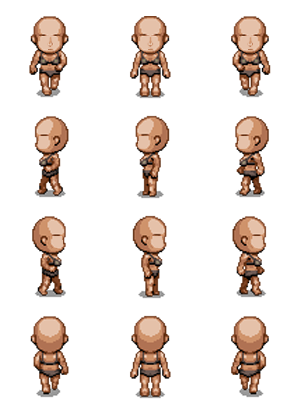
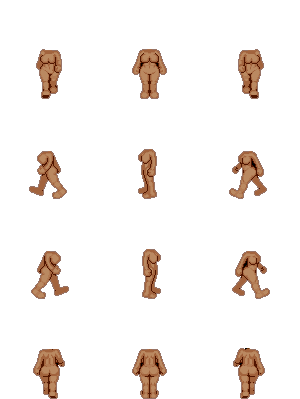
New js file for drawing head

diff --git a/gamepalclient/src/components/worldComponent.vue b/gamepalclient/src/components/worldComponent.vue
@@ -182,6 +182,10 @@
             <img id="sheep" src="../assets/image/animals/sheep.png" />
             <img id="tiger" src="../assets/image/animals/tiger.png" />
             <img id="avatars" src="../assets/image/characters/avatars.png" />
+            <img id="body_a" src="../assets/image/characters/body_a.png" />
+            <img id="body_c" src="../assets/image/characters/body_c.png" />
+            <img id="body_l" src="../assets/image/characters/body_l.png" />
+            <img id="body_b" src="../assets/image/characters/body_b.png" />
             <img id="body_m_a" src="../assets/image/characters/body_m_a.png" />
             <img id="body_m_c" src="../assets/image/characters/body_m_c.png" />
             <img id="body_m_l" src="../assets/image/characters/body_m_l.png" />
@@ -190,11 +194,7 @@
             <img id="body_f_c" src="../assets/image/characters/body_f_c.png" />
             <img id="body_f_l" src="../assets/image/characters/body_f_l.png" />
             <img id="body_f_b" src="../assets/image/characters/body_f_b.png" />
-            <img id="eyes_1" src="../assets/image/characters/eyes_1.png" />
-            <img id="eyes_2" src="../assets/image/characters/eyes_2.png" />
-            <img id="eyes_3" src="../assets/image/characters/eyes_3.png" />
-            <img id="eyes_4" src="../assets/image/characters/eyes_4.png" />
-            <img id="eyes_5" src="../assets/image/characters/eyes_5.png" />
+            <img id="eyes" src="../assets/image/characters/eyes.png" />
             <img id="hairstyle_black" src="../assets/image/characters/hairstyles/hairstyle_black.png" />
             <img id="hairstyle_grey" src="../assets/image/characters/hairstyles/hairstyle_grey.png" />
             <img id="hairstyle_orange" src="../assets/image/characters/hairstyles/hairstyle_orange.png" />
@@ -255,8 +255,9 @@ let racoon
 // let sheep
 // let tiger
 let avatars
-let maleBodies
-let femaleBodies
+let bodies
+// let maleBodies
+// let femaleBodies
 let eyesImage
 let hairstyle_black
 let hairstyle_grey
@@ -530,25 +531,25 @@ export default {
     // sheep = document.getElementById('sheep')
     // tiger = document.getElementById('tiger')
     avatars = document.getElementById('avatars')
-    maleBodies = [
-      document.getElementById('body_m_a'),
-      document.getElementById('body_m_c'),
-      document.getElementById('body_m_l'),
-      document.getElementById('body_m_b')
+    bodies = [
+      document.getElementById('body_a'),
+      document.getElementById('body_c'),
+      document.getElementById('body_l'),
+      document.getElementById('body_b')
     ]
-    femaleBodies = [
-      document.getElementById('body_f_a'),
-      document.getElementById('body_f_c'),
-      document.getElementById('body_f_l'),
-      document.getElementById('body_f_b')
-    ]
-    eyesImage = [
-      document.getElementById('eyes_1'),
-      document.getElementById('eyes_2'),
-      document.getElementById('eyes_3'),
-      document.getElementById('eyes_4'),
-      document.getElementById('eyes_5')
-    ]
+    // maleBodies = [
+    //   document.getElementById('body_m_a'),
+    //   document.getElementById('body_m_c'),
+    //   document.getElementById('body_m_l'),
+    //   document.getElementById('body_m_b')
+    // ]
+    // femaleBodies = [
+    //   document.getElementById('body_f_a'),
+    //   document.getElementById('body_f_c'),
+    //   document.getElementById('body_f_l'),
+    //   document.getElementById('body_f_b')
+    // ]
+    eyesImage = document.getElementById('eyes')
     hairstyle_black = document.getElementById('hairstyle_black')
     hairstyle_grey = document.getElementById('hairstyle_grey')
     hairstyle_orange = document.getElementById('hairstyle_orange')
@@ -631,6 +632,9 @@ export default {
       // Key listener 24/02/12
       var that = this
       document.addEventListener("keyup", function(event) {
+        if (canvasMoveUse !== MOVEMENT_STATE_IDLE && canvasMoveUse !== MOVEMENT_STATE_MOVING) {
+          return
+        }
         event.preventDefault()
         if (event.key === 'w' || event.key === 'W') {
           isKeyDown[0] = false
@@ -655,6 +659,9 @@ export default {
         }
       })
       document.addEventListener("keydown", function(event) {
+        if (canvasMoveUse !== MOVEMENT_STATE_IDLE && canvasMoveUse !== MOVEMENT_STATE_MOVING) {
+          return
+        }
         event.preventDefault()
         if (event.key === 'w' || event.key === 'W') {
           isKeyDown[0] = true
@@ -994,9 +1001,6 @@ export default {
         var imageY = 0
         if (block.type == BLOCK_TYPE_PLAYER) {
           this.printCharacter(playerInfos[block.id], block.x - 0.5, block.y - 1)
-          // this.drawCharacter(context, 
-          // {x: (block.x - 0.5) * blockSize + deltaWidth, y: (block.y - 1) * blockSize + deltaHeight}, 
-          // {x: (block.x + 0.5) * blockSize + deltaWidth, y: block.y * blockSize + deltaHeight})
         } else {
           if (Number(block.code) == EVENT_CODE_HIT) {
             img = hitEffect
@@ -1133,18 +1137,16 @@ export default {
       var img
       if (playerInfoTemp.creature == 1) {
         // Display RPG character
-        var adderY, bodyImage
+        var bodyImage = bodies[Number(playerInfoTemp.skinColor) - 1]
         if (playerInfoTemp.gender == 1) {
-          bodyImage = maleBodies[Number(playerInfoTemp.skinColor) - 1]
-          adderY = 4
+          // bodyImage = maleBodies[Number(playerInfoTemp.skinColor) - 1]
         } else if (playerInfoTemp.gender == 2) {
-          bodyImage = femaleBodies[Number(playerInfoTemp.skinColor) - 1]
-          adderY = 0
+          // bodyImage = femaleBodies[Number(playerInfoTemp.skinColor) - 1]
+          offsetX += 3
         }
-        context.drawImage(bodyImage, offsetX * imageBlockSize, offsetY * imageBlockSize, imageBlockSize, imageBlockSize, 
-        x * blockSize + deltaWidth, y * blockSize + deltaHeight, blockSize, blockSize)
-        context.drawImage(eyesImage[Number(playerInfoTemp.eyes) - 1], 0, offsetY * imageBlockSize, imageBlockSize, imageBlockSize, 
-        x * blockSize + deltaWidth, y * blockSize + deltaHeight, blockSize, blockSize)
+        const cutHeadRatio = 0.32
+        context.drawImage(bodyImage, offsetX * imageBlockSize, (cutHeadRatio + offsetY) * imageBlockSize, imageBlockSize, (1 - cutHeadRatio) * imageBlockSize, 
+        x * blockSize + deltaWidth, (cutHeadRatio + y) * blockSize + deltaHeight, blockSize, (1 - cutHeadRatio) * blockSize)
         // Print outfit
         if (this.isDef(playerInfoTemp.outfits) && playerInfoTemp.outfits.length > 0) {
           if (playerInfoTemp.outfits[0] == 'a001') {
@@ -1186,18 +1188,16 @@ export default {
           if (playerInfoTemp.outfits[0] == 'a013') {
             img = a013
           }
-          context.drawImage(img, offsetX * imageBlockSize, (offsetY + adderY) * imageBlockSize, imageBlockSize, imageBlockSize, 
+          context.drawImage(img, offsetX * imageBlockSize, offsetY * imageBlockSize, imageBlockSize, imageBlockSize, 
           x * blockSize + deltaWidth, y * blockSize + deltaHeight, blockSize, blockSize)
         }
-        if (playerInfoTemp.hairColor == 1) {
-          img = hairstyle_black
-        } else if (playerInfoTemp.hairColor == 2) {
-          img = hairstyle_grey
-        } else if (playerInfoTemp.hairColor == 3) {
-          img = hairstyle_orange
-        }
-        context.drawImage(img, (playerInfoTemp.hairstyle - 1) * imageBlockSize, offsetY * imageBlockSize, imageBlockSize, imageBlockSize, 
-        x * blockSize + deltaWidth, y * blockSize + deltaHeight, blockSize, blockSize)
+        
+        // Show head
+        this.drawHead(context, imageBlockSize, blockSize,
+        {x: x * blockSize + deltaWidth, y: y * blockSize + deltaHeight}, 
+        {x: (x + 1) * blockSize + deltaWidth, y: (y + 1) * blockSize + deltaHeight},
+        [0.5, 0.5, 0.5, 0.5, 0.52, 0.6, 0.6], offsetY,
+        playerInfoTemp, eyesImage, hairstyle_black, hairstyle_grey, hairstyle_orange)
       } else if (playerInfoTemp.creature == 2) {
         // Display animals
         switch (playerInfoTemp.skinColor) {
@@ -1217,21 +1217,22 @@ export default {
         context.drawImage(img, offsetX * imageBlockSize, offsetY * imageBlockSize, imageBlockSize, imageBlockSize, 
         x * blockSize + deltaWidth, y * blockSize + deltaHeight, blockSize, blockSize)
       } else if (playerInfoTemp.creature == 3) {
-        // Display npcs
+        // Display other creatures
         // TBD
       }
       // Show name
+      const statusDisplayDistance = 0.8
       if (this.isDef(playerInfoTemp.nameColor)) {
         context.save()
         context.fillStyle = playerInfoTemp.nameColor
-        context.fillRect((x - 0.25 + 0.5) * blockSize + deltaWidth, (y - 0.36 - 0.5 + 1) * blockSize + deltaHeight, 
+        context.fillRect((x - 0.25 + 0.5) * blockSize + deltaWidth, (y - 0.36 - 0.5 + statusDisplayDistance) * blockSize + deltaHeight, 
         blockSize * 0.5, 
         blockSize * 0.02)
         context.restore()
       }
       context.drawImage(avatars, playerInfoTemp.avatar % 10 * avatarSize, Math.floor(playerInfoTemp.avatar / 10) * avatarSize, 
       avatarSize, avatarSize, (x - 0.25 + 0.02 - 0.2 + 0.5) * blockSize + deltaWidth, 
-      (y - 0.36 - 0.2 - 0.5 + 1) * blockSize + deltaHeight, 
+      (y - 0.36 - 0.2 - 0.5 + statusDisplayDistance) * blockSize + deltaHeight, 
       blockSize * 0.25, blockSize * 0.25)
       if (userCode != playerInfoTemp.id) {
         context.fillStyle = 'yellow'
@@ -1245,7 +1246,7 @@ export default {
         context.save()
         context.beginPath()
         context.arc((x + 0.25 + 0.1 + 0.5) * blockSize + deltaWidth, 
-        (y - 0.54 + 0.1 - 0.5 + 1) * blockSize + deltaHeight, 
+        (y - 0.54 + 0.1 - 0.5 + statusDisplayDistance) * blockSize + deltaHeight, 
         0.1 * blockSize, 0, 
         2 * Math.PI)
         context.fill()
@@ -1253,7 +1254,7 @@ export default {
       }
       if (this.isDef(playerInfoTemp.nickname)) {
         this.printText(playerInfoTemp.nickname, (x + 0.5) * blockSize + deltaWidth, 
-        (y - 0.5 + 0.12 - 0.5 + 1) * blockSize + deltaHeight, 
+        (y - 0.5 + 0.12 - 0.5 + statusDisplayDistance) * blockSize + deltaHeight, 
         Math.min(canvas.width, blockSize * 0.5), 
         'center')
       }
@@ -2326,6 +2327,9 @@ export default {
       return rst
     },
     startInteraction (block) {
+      if (this.isDef(interactionInfo) && interactionInfo.code == block.code) {
+        return
+      }
       if (block.type == BLOCK_TYPE_PLAYER) {
         if (block.id != userCode) {
           interactionInfo = {
@@ -3112,8 +3116,8 @@ export default {
     printText (content, x, y, maxWidth, textAlign) {
       this.$drawMethods.printText(context, content, x, y, maxWidth, textAlign)
     },
-    drawCharacter (context, upLeftPoint, downRightPoint) {
-      this.$drawMethods.drawCharacter(context, upLeftPoint, downRightPoint)
+    drawHead (context, imageBlockSize, blockSize, upLeftPoint, downRightPoint, coefs, offsetY, playerInfoTemp, eyesImage, hairstyle_black, hairstyle_grey, hairstyle_orange) {
+      this.$drawMethods.drawHead(context, imageBlockSize, blockSize, upLeftPoint, downRightPoint, coefs, offsetY, playerInfoTemp, eyesImage, hairstyle_black, hairstyle_grey, hairstyle_orange)
     }
   }
 }

diff --git a/gamepalclient/src/draw.js b/gamepalclient/src/draw.js
@@ -17,47 +17,83 @@ export const drawMethods = {
     context.fillText(content, x, y, maxWidth)
     context.restore()
   },
-  drawCharacter(context, upLeftPoint, downRightPoint) {
-    var width = downRightPoint.x - upLeftPoint.x
-    var height = downRightPoint.y - upLeftPoint.y
-    // let circles = [
-    //   { x: 200, y: 100, r: 100 },
-    //   { x: 100, y: 200, r: 100 },
-    //   { x: 200, y: 300, r: 100 },
-    //   { x: 300, y: 200, r: 100 }
-    // ];
-    this.drawHead(context, 
-      {x: upLeftPoint.x + width * 0.25, y: upLeftPoint.y}, 
-      {x: upLeftPoint.x + width * 0.75, y: upLeftPoint.y + height * 0.5},
-      [0.5, 0.5, 0.5, 0.5, 0.5])
-    // drawFigure(context, )
-  },
-  drawHead(context, upLeftPoint, downRightPoint, coefs) {
+  drawHead(context, imageBlockSize, blockSize, upLeftPoint, downRightPoint, coefs, offsetY, playerInfoTemp, eyesImage, hairstyle_black, hairstyle_grey, hairstyle_orange) {
+    // upLeftPoint: 整个身体的左上角
+    // downRightPoint: 整个身体的右下角
     // coefs: 头顶高度系数 额头弧度系数 颧骨宽度系数 脸颊弧度系数 下颚高度系数
     // 头型
     var width = downRightPoint.x - upLeftPoint.x
     var height = downRightPoint.y - upLeftPoint.y
-    var headUpPoint = {x: upLeftPoint.x + width * 0.5, y: upLeftPoint.y + (1 - coefs[0]) * height * 0.5}
-    var headLeftPoint = {x: upLeftPoint.x + (1 - coefs[2]) * width * 0.5, y: upLeftPoint.y + height * 0.5}
-    var headDownPoint = {x: upLeftPoint.x + width * 0.5, y: upLeftPoint.y + (1 + coefs[0]) * height * 0.5}
-    var headRightPoint = {x: upLeftPoint.x + (1 + coefs[2]) * width * 0.5, y: upLeftPoint.y + height * 0.5}
-    var radiusUp = Math.sqrt(Math.pow(headUpPoint.x - headLeftPoint.x, 2) + Math.pow(headUpPoint.y - headLeftPoint.y, 2), 2)
-    var radiusDown = Math.sqrt(Math.pow(headDownPoint.x - headLeftPoint.x, 2) + Math.pow(headDownPoint.y - headLeftPoint.y, 2), 2)
-    context.strokeStyle = 'rgba(255, 255, 191, 0.5)'
-    context.fillStyle = 'rgba(191, 191, 127, 1)'
-    context.beginPath();
-    context.moveTo(headUpPoint.x, headUpPoint.y)
-    context.arcTo(headUpPoint.x, headUpPoint.y, headLeftPoint.x, headLeftPoint.y, radiusUp);
-    context.arcTo(headLeftPoint.x, headLeftPoint.y, headDownPoint.x, headDownPoint.y, radiusDown);
-    context.arcTo(headDownPoint.x, headDownPoint.y, headRightPoint.x, headRightPoint.y, radiusDown);
-    context.arcTo(headRightPoint.x, headRightPoint.y, headUpPoint.x, headUpPoint.y, radiusUp);
+    var centerHeadPoint = {x: upLeftPoint.x + width * 0.5, y: upLeftPoint.y + height * 0.15}
+    var UpLeftHeadPoint = {x: centerHeadPoint.x - width * 0.1 * (1 + (coefs[2] - 0.5)), y: centerHeadPoint.y - height * 0.12 * (1 + (coefs[0] - 0.5))}
+    var DownLeftHeadPoint = {x: centerHeadPoint.x - width * 0.1 * (1 + (coefs[3] - 0.5)), y: centerHeadPoint.y + height * 0.12 * (1 + (coefs[1] - 0.5))}
+    var DownRightHeadPoint = {x: centerHeadPoint.x + width * 0.1 * (1 + (coefs[3] - 0.5)), y: centerHeadPoint.y + height * 0.12 * (1 + (coefs[1] - 0.5))}
+    var UpRightHeadPoint = {x: centerHeadPoint.x + width * 0.1 * (1 + (coefs[2] - 0.5)), y: centerHeadPoint.y - height * 0.12 * (1 + (coefs[0] - 0.5))}
+    var leftControlPoint = {x: UpLeftHeadPoint.x - width * (coefs[5] - 0.5), y: centerHeadPoint.y}
+    var downControlPoint = {x: centerHeadPoint.x, y: DownLeftHeadPoint.y + height * (coefs[6] - 0.5)}
+    var rightControlPoint = {x: UpRightHeadPoint.x + width * (coefs[5] - 0.5), y: centerHeadPoint.y}
+    var upControlPoint = {x: centerHeadPoint.x, y: UpLeftHeadPoint.y - height * (coefs[4] - 0.5)}
+    switch (Number(playerInfoTemp.skinColor)) {
+      case 1:
+        context.strokeStyle = 'rgba(150, 75, 31, 1)'
+        context.fillStyle = 'rgba(249, 193, 157, 1)'
+        break
+      case 2:
+        context.strokeStyle = 'rgba(169, 100, 55, 1)'
+        context.fillStyle = 'rgba(252, 224, 206, 1)'
+        break
+      case 3:
+        context.strokeStyle = 'rgba(80, 21, 0, 1)'
+        context.fillStyle = 'rgba(186, 137, 97, 1)'
+        break
+      case 4:
+        context.strokeStyle = 'rgba(64, 31, 14, 1)'
+        context.fillStyle = 'rgba(119, 75, 41, 1)'
+        break
+    }
+    var neckWidth = width * 0.10
+    var neckHeight = height * 0.08
+    context.beginPath()
+    context.fillRect(centerHeadPoint.x - neckWidth / 2, DownLeftHeadPoint.y, neckWidth, neckHeight)
+    context.closePath()
+    context.fill()
+    context.beginPath()
+    context.moveTo(UpLeftHeadPoint.x, UpLeftHeadPoint.y)
+    context.quadraticCurveTo(leftControlPoint.x, leftControlPoint.y, DownLeftHeadPoint.x, DownLeftHeadPoint.y)
+    context.quadraticCurveTo(downControlPoint.x, downControlPoint.y, DownRightHeadPoint.x, DownRightHeadPoint.y)
+    context.quadraticCurveTo(rightControlPoint.x, rightControlPoint.y, UpRightHeadPoint.x, UpRightHeadPoint.y)
+    context.quadraticCurveTo(upControlPoint.x, upControlPoint.y, UpLeftHeadPoint.x, UpLeftHeadPoint.y)
     context.closePath()
     context.fill()
     context.stroke()
-    console.log(headUpPoint.x+':'+headUpPoint.y)
-    console.log(headLeftPoint.x+':'+headLeftPoint.y)
-    console.log(headDownPoint.x+':'+headDownPoint.y)
     // 眉毛眼睛、鼻子、嘴巴、头发、帽子
+    switch(offsetY) {
+      case 0:
+        context.drawImage(eyesImage, (Number(playerInfoTemp.eyes) - 1) * imageBlockSize / 4, 0, imageBlockSize / 8, imageBlockSize / 4, 
+        centerHeadPoint.x - blockSize / 8, centerHeadPoint.y - blockSize / 8, blockSize / 8, blockSize / 4)
+        context.drawImage(eyesImage, ((Number(playerInfoTemp.eyes) - 1) + 0.5) * imageBlockSize / 4, 0, imageBlockSize / 8, imageBlockSize / 4, 
+        centerHeadPoint.x, centerHeadPoint.y - blockSize / 8, blockSize / 8, blockSize / 4)
+        break
+      case 1:
+        context.drawImage(eyesImage, ((Number(playerInfoTemp.eyes) - 1) + 0.5) * imageBlockSize / 4, 0, imageBlockSize / 8, imageBlockSize / 4, 
+        centerHeadPoint.x - blockSize / 8, centerHeadPoint.y - blockSize / 8, blockSize / 8, blockSize / 4)
+        break
+      case 2:
+        context.drawImage(eyesImage, (Number(playerInfoTemp.eyes) - 1) * imageBlockSize / 4, 0, imageBlockSize / 8, imageBlockSize / 4, 
+        centerHeadPoint.x, centerHeadPoint.y - blockSize / 8, blockSize / 8, blockSize / 4)
+        break
+    }
+    
+    var img
+    if (playerInfoTemp.hairColor == 1) {
+      img = hairstyle_black
+    } else if (playerInfoTemp.hairColor == 2) {
+      img = hairstyle_grey
+    } else if (playerInfoTemp.hairColor == 3) {
+      img = hairstyle_orange
+    }
+    context.drawImage(img, (playerInfoTemp.hairstyle - 1) * imageBlockSize, offsetY * imageBlockSize, imageBlockSize, imageBlockSize, 
+    upLeftPoint.x, upLeftPoint.y - blockSize * 0.25, blockSize, blockSize)
   }
   // drawFigure(context, x1, x2, y1, y2) {
   // }
